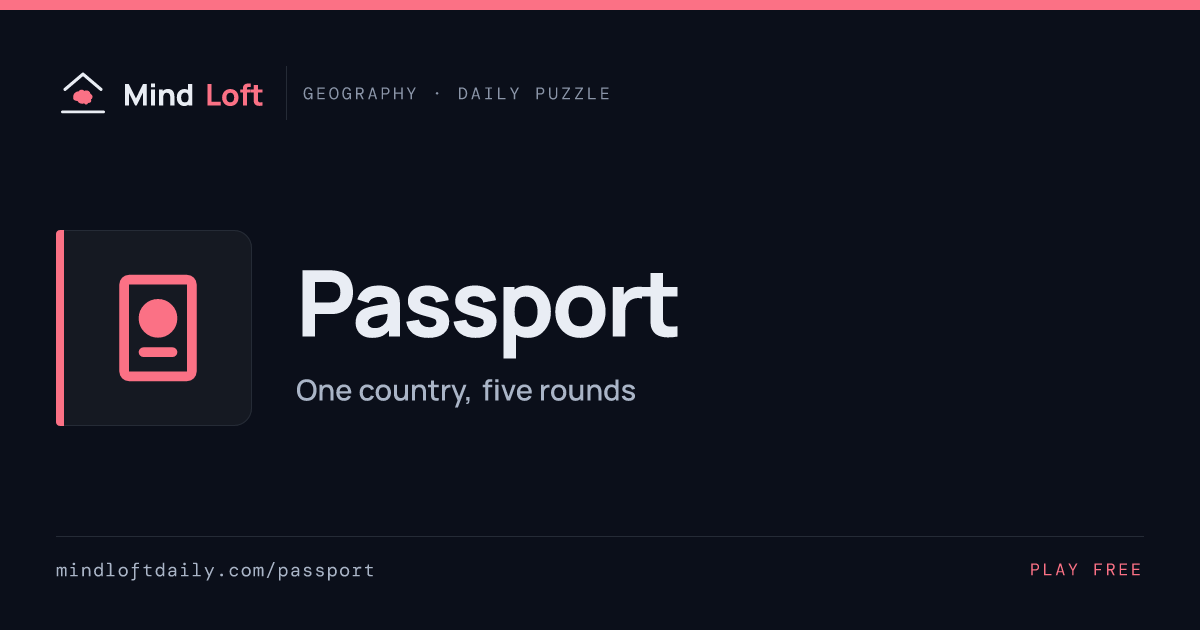
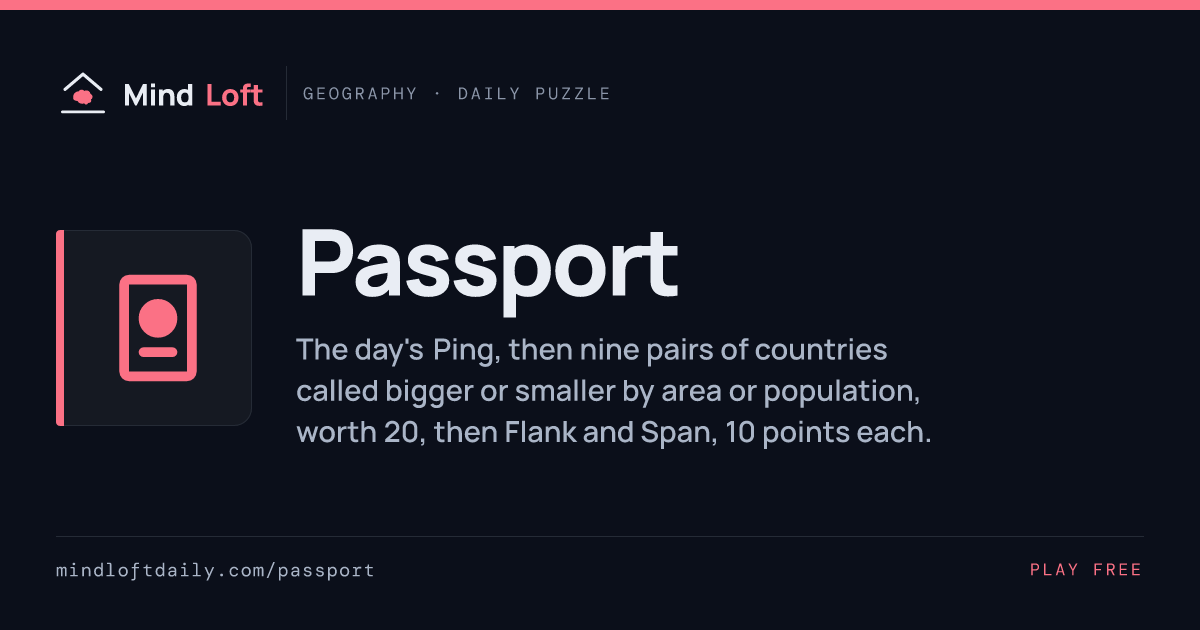
Passport copy: stop calling it one country; describe the four legs (newsletter, entry door, share card, fallback)
Claude-Session: https://claude.ai/code/session_01WTo3gx6W8KygJbLUGP86pN

Changed region(s): [[0.2467, 0.3619, 0.74, 0.573], [0.2467, 0.6032, 0.7708, 0.7238]]

diff --git a/lib/newsletters/four-weeks-2026-10-19.js b/lib/newsletters/four-weeks-2026-10-19.js
@@ -8,7 +8,7 @@ export const CAMPAIGN = {
   preheader: 'Thank you: 110,028 plays, a leaderboard nearly three times bigger, 40 new daily games, runs and private groups.',
 };
 
-const HTML = "<!doctype html>\n<html><head><meta charset=\"utf-8\"><meta name=\"viewport\" content=\"width=device-width,initial-scale=1\">\n<title>Mind Loft, the last four weeks</title></head>\n<body style=\"margin:0;padding:0;background:#eef1f6;font-family:Manrope,Arial,Helvetica,sans-serif;color:#0b0d12;\">\n<div style=\"display:none;max-height:0;overflow:hidden;\">Thank you: 110,028 plays, a leaderboard nearly three times bigger, 40 new daily games, runs and private groups.</div>\n<table role=\"presentation\" width=\"100%\" cellpadding=\"0\" cellspacing=\"0\" style=\"background:#eef1f6;\"><tr><td align=\"center\" style=\"padding:24px 12px;\">\n<table role=\"presentation\" width=\"600\" cellpadding=\"0\" cellspacing=\"0\" style=\"max-width:600px;width:100%;\">\n\n<tr><td style=\"background:#0b0f1a;border-radius:12px 12px 0 0;padding:26px 28px;\">\n<table role=\"presentation\" width=\"100%\" cellpadding=\"0\" cellspacing=\"0\"><tr>\n<td style=\"vertical-align:baseline;\"><span style=\"font-size:20px;font-weight:800;color:#ffffff;\">Mind Loft</span><span style=\"font-size:13px;color:#bfd0ee;\"> &nbsp;\u00b7&nbsp; Sharpen your mind</span></td>\n<td align=\"right\" style=\"vertical-align:baseline;font-size:12px;letter-spacing:.08em;text-transform:uppercase;color:#7db0ff;font-weight:700;white-space:nowrap;\">Sept 22 to Oct 18</td>\n</tr></table>\n<div style=\"font-size:28px;font-weight:800;color:#ffffff;line-height:1.2;margin-top:18px;\">The last four weeks</div>\n<div style=\"font-size:15px;color:#dbe6ff;line-height:1.55;margin-top:10px;\">Thank you for playing. Mind Loft keeps growing because of you, and especially because you keep bringing friends along.</div>\n<div style=\"font-size:15px;color:#dbe6ff;line-height:1.55;margin-top:10px;\">In the last four weeks you played 110,028 games, nearly four times as many a day as when we last wrote. The leaderboard has grown from 4,630 players to 13,272, and our busiest day yet was Friday, Oct 16, with 1,264 players.</div>\n<div style=\"font-size:15px;color:#dbe6ff;line-height:1.55;margin-top:10px;\">We are also working on ways Mind Loft can help cognitive researchers in their work. More to share on that soon.</div>\n<div style=\"font-size:15px;color:#dbe6ff;line-height:1.55;margin-top:10px;\">Below: who led the way, who brought the most friends, and everything new.</div>\n</td></tr>\n\n<tr><td style=\"background:#ffffff;padding:26px 28px;border-left:4px solid #e8b43a;\">\n<div style=\"font-size:12px;letter-spacing:.12em;text-transform:uppercase;color:#8a6a12;font-weight:800;\">Top players</div>\n<div style=\"font-size:20px;font-weight:800;margin-top:6px;\">Jordan Voss took 21 of 27 crowns</div>\n<div style=\"font-size:15px;line-height:1.6;margin-top:8px;color:#2b3140;\">Jordan won the combined daily board 21 times, finished first in 310 individual games, and earned 29,507 IQ Points in the last 30 days, more than anyone. The other six days went to Darrren1 (three), rookie, TL68 and VicMcDoogle.</div>\n<table role=\"presentation\" width=\"100%\" cellpadding=\"0\" cellspacing=\"0\" style=\"margin-top:16px;font-size:14px;\">\n<tr><td style=\"padding:9px 0;border-top:1px solid #e3e7ef;\"><b>VicMcDoogle</b></td><td align=\"right\" style=\"padding:9px 0;border-top:1px solid #e3e7ef;color:#2b3140;\">#1 all time, 57,276 IQ Points; 14 top-three days</td></tr>\n<tr><td style=\"padding:9px 0;border-top:1px solid #e3e7ef;\"><b>rookie</b></td><td align=\"right\" style=\"padding:9px 0;border-top:1px solid #e3e7ef;color:#2b3140;\">Top ten on 25 of 27 days; 252 game wins</td></tr>\n<tr><td style=\"padding:9px 0;border-top:1px solid #e3e7ef;\"><b>TL68</b></td><td align=\"right\" style=\"padding:9px 0;border-top:1px solid #e3e7ef;color:#2b3140;\">Top ten on 25 of 27 days; 114 game wins</td></tr>\n<tr><td style=\"padding:9px 0;border-top:1px solid #e3e7ef;\"><b>e4n</b></td><td align=\"right\" style=\"padding:9px 0;border-top:1px solid #e3e7ef;color:#2b3140;\">181 game wins</td></tr>\n<tr><td style=\"padding:9px 0;border-top:1px solid #e3e7ef;border-bottom:1px solid #e3e7ef;\"><b>Darrren1</b></td><td align=\"right\" style=\"padding:9px 0;border-top:1px solid #e3e7ef;border-bottom:1px solid #e3e7ef;color:#2b3140;\">Three crowns; #2 all time on IQ Points</td></tr>\n</table>\n</td></tr>\n\n<tr><td style=\"height:12px;line-height:12px;\">&nbsp;</td></tr>\n\n<tr><td style=\"background:#ffffff;padding:26px 28px;border-left:4px solid #1f8a5b;\">\n<div style=\"font-size:12px;letter-spacing:.12em;text-transform:uppercase;color:#1f6b47;font-weight:800;\">Top community members</div>\n<div style=\"font-size:20px;font-weight:800;margin-top:6px;\">Thank you for bringing friends</div>\n<div style=\"font-size:15px;line-height:1.6;margin-top:8px;color:#2b3140;\">These players have brought the most new players to Mind Loft through their share links.</div>\n<table role=\"presentation\" width=\"100%\" cellpadding=\"0\" cellspacing=\"0\" style=\"margin-top:14px;font-size:14px;\">\n<tr><td style=\"padding:8px 0;border-top:1px solid #e3e7ef;\"><b>1. Gator85</b></td><td align=\"right\" style=\"padding:8px 0;border-top:1px solid #e3e7ef;\">33 players</td></tr>\n<tr><td style=\"padding:8px 0;border-top:1px solid #e3e7ef;\"><b>2. Gayle F</b></td><td align=\"right\" style=\"padding:8px 0;border-top:1px solid #e3e7ef;\">22 players</td></tr>\n<tr><td style=\"padding:8px 0;border-top:1px solid #e3e7ef;\"><b>3. LookAtLeo</b></td><td align=\"right\" style=\"padding:8px 0;border-top:1px solid #e3e7ef;\">11 players</td></tr>\n<tr><td style=\"padding:8px 0;border-top:1px solid #e3e7ef;\"><b>4. Bong S.</b></td><td align=\"right\" style=\"padding:8px 0;border-top:1px solid #e3e7ef;\">6 players</td></tr>\n<tr><td style=\"padding:8px 0;border-top:1px solid #e3e7ef;border-bottom:1px solid #e3e7ef;\"><b>5. Jimbo, jkoh, Gator88</b></td><td align=\"right\" style=\"padding:8px 0;border-top:1px solid #e3e7ef;border-bottom:1px solid #e3e7ef;\">5 players each</td></tr>\n</table>\n<div style=\"font-size:14px;line-height:1.6;margin-top:12px;color:#2b3140;\">Your share link is on the end card after every game. Anyone who plays through it counts toward your total.</div>\n</td></tr>\n\n<tr><td style=\"height:12px;line-height:12px;\">&nbsp;</td></tr>\n\n<tr><td style=\"background:#ffffff;padding:26px 28px;border-left:4px solid #2563eb;\">\n<div style=\"font-size:12px;letter-spacing:.12em;text-transform:uppercase;color:#1d4ed8;font-weight:800;\">New: runs</div>\n<div style=\"font-size:20px;font-weight:800;margin-top:6px;\">Several games, one sitting, one score</div>\n<div style=\"font-size:15px;line-height:1.6;margin-top:8px;color:#2b3140;\">A run plays a set of daily games back to back with no stops in between, and ranks you on the whole set. Each one ends with a title or verdict, and a challenge link to send a friend.</div>\n<table role=\"presentation\" width=\"100%\" cellpadding=\"0\" cellspacing=\"0\" style=\"margin-top:12px;font-size:14px;line-height:1.5;\">\n<tr><td style=\"padding:8px 0;border-top:1px solid #e3e7ef;\"><a href=\"https://mindloftdaily.com/polymath?c=nl1019-runs\" style=\"color:#1d4ed8;font-weight:800;text-decoration:none;\">Polymath</a> <span style=\"color:#6b7385;\">new today</span><br>The Trivia, Math and English Gauntlets in one. Earn a title from Dabbler to Polymath.</td></tr>\n<tr><td style=\"padding:8px 0;border-top:1px solid #e3e7ef;\"><a href=\"https://mindloftdaily.com/english?c=nl1019-runs\" style=\"color:#1d4ed8;font-weight:800;text-decoration:none;\">English Gauntlet</a> <span style=\"color:#6b7385;\">new today</span><br>Spelling, vocabulary, idioms, grammar and word origins.</td></tr>\n<tr><td style=\"padding:8px 0;border-top:1px solid #e3e7ef;\"><a href=\"https://mindloftdaily.com/math?c=nl1019-runs\" style=\"color:#1d4ed8;font-weight:800;text-decoration:none;\">Math Gauntlet</a><br>Every mental math daily, one life each.</td></tr>\n<tr><td style=\"padding:8px 0;border-top:1px solid #e3e7ef;\"><a href=\"https://mindloftdaily.com/triviaencore?c=nl1019-runs\" style=\"color:#1d4ed8;font-weight:800;text-decoration:none;\">Trivia Encore</a><br>The trivia categories left out of the day's Trivia Gauntlet.</td></tr>\n<tr><td style=\"padding:8px 0;border-top:1px solid #e3e7ef;\"><a href=\"https://mindloftdaily.com/dojo?c=nl1019-runs\" style=\"color:#1d4ed8;font-weight:800;text-decoration:none;\">Enter the Dojo</a><br>Three sudokus, fast. Earn your belt.</td></tr>\n<tr><td style=\"padding:8px 0;border-top:1px solid #e3e7ef;\"><a href=\"https://mindloftdaily.com/judged?c=nl1019-runs\" style=\"color:#1d4ed8;font-weight:800;text-decoration:none;\">Judged</a><br>Five legal-reasoning puzzles. Your score picks your law school.</td></tr>\n<tr><td style=\"padding:8px 0;border-top:1px solid #e3e7ef;\"><a href=\"https://mindloftdaily.com/room?c=nl1019-runs\" style=\"color:#1d4ed8;font-weight:800;text-decoration:none;\">Read the Room</a><br>Four crowd games. No answer key, only what everyone else picked.</td></tr>\n<tr><td style=\"padding:8px 0;border-top:1px solid #e3e7ef;\"><a href=\"https://mindloftdaily.com/passport?c=nl1019-runs\" style=\"color:#1d4ed8;font-weight:800;text-decoration:none;\">Passport</a><br>A daily geography run built around one country.</td></tr>\n<tr><td style=\"padding:8px 0;border-top:1px solid #e3e7ef;border-bottom:1px solid #e3e7ef;\"><a href=\"https://mindloftdaily.com/pricecheck?c=nl1019-runs\" style=\"color:#1d4ed8;font-weight:800;text-decoration:none;\">Price Check</a><br>Guess what real things cost, from groceries to houses.</td></tr>\n</table>\n</td></tr>\n\n<tr><td style=\"height:12px;line-height:12px;\">&nbsp;</td></tr>\n\n<tr><td style=\"background:#ffffff;padding:26px 28px;border-left:4px solid #7c3aed;\">\n<div style=\"font-size:12px;letter-spacing:.12em;text-transform:uppercase;color:#6d28d9;font-weight:800;\">New: groups</div>\n<div style=\"font-size:20px;font-weight:800;margin-top:6px;\">A private leaderboard for your people</div>\n<div style=\"font-size:15px;line-height:1.6;margin-top:8px;color:#2b3140;\">Make a group for family, friends, a book club or the office. Share one link and everyone in it gets a private daily leaderboard, per-game rankings, stats and history.</div>\n<div style=\"margin-top:14px;\"><a href=\"https://mindloftdaily.com/groups?c=nl1019-groups\" style=\"display:inline-block;background:#7c3aed;color:#ffffff;font-weight:800;font-size:14px;padding:10px 18px;border-radius:8px;text-decoration:none;\">Start a group</a></div>\n</td></tr>\n\n<tr><td style=\"height:12px;line-height:12px;\">&nbsp;</td></tr>\n\n<tr><td style=\"background:#ffffff;padding:26px 28px;border-left:4px solid #c2410c;\">\n<div style=\"font-size:12px;letter-spacing:.12em;text-transform:uppercase;color:#9a3412;font-weight:800;\">New games</div>\n<div style=\"font-size:20px;font-weight:800;margin-top:6px;\">The daily slate grew from 95 games to 135</div>\n<table role=\"presentation\" width=\"100%\" cellpadding=\"0\" cellspacing=\"0\" style=\"margin-top:12px;font-size:14px;line-height:1.55;color:#2b3140;\">\n<tr><td style=\"padding:7px 0;border-top:1px solid #e3e7ef;width:96px;vertical-align:top;\"><b>Word</b></td><td style=\"padding:7px 0;border-top:1px solid #e3e7ef;\"><a href=\"https://mindloftdaily.com/arcos?c=nl1019-games\" style=\"color:#1d4ed8;\">Arcos</a> (acrostics), <a href=\"https://mindloftdaily.com/scour?c=nl1019-games\" style=\"color:#1d4ed8;\">Scour</a> (word search), <a href=\"https://mindloftdaily.com/scram?c=nl1019-games\" style=\"color:#1d4ed8;\">Scram</a> (themed scrambles), plus five English quizzes: Spell, Vocab, Idiom, Gram and Origin</td></tr>\n<tr><td style=\"padding:7px 0;border-top:1px solid #e3e7ef;vertical-align:top;\"><b>Logic</b></td><td style=\"padding:7px 0;border-top:1px solid #e3e7ef;\"><a href=\"https://mindloftdaily.com/ergo?c=nl1019-games\" style=\"color:#1d4ed8;\">Ergo</a> (if-then rules), <a href=\"https://mindloftdaily.com/judges?c=nl1019-games\" style=\"color:#1d4ed8;\">Judges</a> (Star Battle), <a href=\"https://mindloftdaily.com/lamps?c=nl1019-games\" style=\"color:#1d4ed8;\">Lamps</a> (light-up), <a href=\"https://mindloftdaily.com/duet?c=nl1019-games\" style=\"color:#1d4ed8;\">Duet</a> (dots and rings)</td></tr>\n<tr><td style=\"padding:7px 0;border-top:1px solid #e3e7ef;vertical-align:top;\"><b>Sudoku</b></td><td style=\"padding:7px 0;border-top:1px solid #e3e7ef;\"><a href=\"https://mindloftdaily.com/giant?c=nl1019-games\" style=\"color:#1d4ed8;\">Giant</a> (16x16), Arrow, Sumo, Window, Five and Racecar</td></tr>\n<tr><td style=\"padding:7px 0;border-top:1px solid #e3e7ef;vertical-align:top;\"><b>Numbers</b></td><td style=\"padding:7px 0;border-top:1px solid #e3e7ef;\"><a href=\"https://mindloftdaily.com/gap?c=nl1019-games\" style=\"color:#1d4ed8;\">Gap</a>, <a href=\"https://mindloftdaily.com/series?c=nl1019-games\" style=\"color:#1d4ed8;\">Series</a> and <a href=\"https://mindloftdaily.com/back?c=nl1019-games\" style=\"color:#1d4ed8;\">Back</a>, plus five price games: Pricer, Dealer, Realtor, Agent and Curator</td></tr>\n<tr><td style=\"padding:7px 0;border-top:1px solid #e3e7ef;vertical-align:top;\"><b>Trivia</b></td><td style=\"padding:7px 0;border-top:1px solid #e3e7ef;\"><a href=\"https://mindloftdaily.com/clade?c=nl1019-games\" style=\"color:#1d4ed8;\">Clade</a> (guess the animal), <a href=\"https://mindloftdaily.com/dossier?c=nl1019-games\" style=\"color:#1d4ed8;\">Dossier</a>, <a href=\"https://mindloftdaily.com/potluck?c=nl1019-games\" style=\"color:#1d4ed8;\">Potluck</a>, and new Science, Art and History banks</td></tr>\n<tr><td style=\"padding:7px 0;border-top:1px solid #e3e7ef;vertical-align:top;\"><b>Cards</b></td><td style=\"padding:7px 0;border-top:1px solid #e3e7ef;\"><a href=\"https://mindloftdaily.com/hold?c=nl1019-games\" style=\"color:#1d4ed8;\">Hold</a> (video poker) and <a href=\"https://mindloftdaily.com/cell?c=nl1019-games\" style=\"color:#1d4ed8;\">Cell</a> (FreeCell)</td></tr>\n<tr><td style=\"padding:7px 0;border-top:1px solid #e3e7ef;vertical-align:top;\"><b>Board</b></td><td style=\"padding:7px 0;border-top:1px solid #e3e7ef;\"><a href=\"https://mindloftdaily.com/swindle?c=nl1019-games\" style=\"color:#1d4ed8;\">Swindle</a> (save a lost chess game) and <a href=\"https://mindloftdaily.com/gift?c=nl1019-games\" style=\"color:#1d4ed8;\">Gift</a></td></tr>\n<tr><td style=\"padding:7px 0;border-top:1px solid #e3e7ef;vertical-align:top;\"><b>Crowd</b></td><td style=\"padding:7px 0;border-top:1px solid #e3e7ef;\"><a href=\"https://mindloftdaily.com/herd?c=nl1019-games\" style=\"color:#1d4ed8;\">Herd</a> (pick what most players picked)</td></tr>\n<tr><td style=\"padding:7px 0;border-top:1px solid #e3e7ef;border-bottom:1px solid #e3e7ef;vertical-align:top;\"><b>Arcade</b></td><td style=\"padding:7px 0;border-top:1px solid #e3e7ef;border-bottom:1px solid #e3e7ef;\"><a href=\"https://mindloftdaily.com/squash?c=nl1019-games\" style=\"color:#1d4ed8;\">Squash</a> (match three), <a href=\"https://mindloftdaily.com/dario?c=nl1019-games\" style=\"color:#1d4ed8;\">Dario</a> (platformer) and <a href=\"https://mindloftdaily.com/snake?c=nl1019-games\" style=\"color:#1d4ed8;\">Snake</a></td></tr>\n</table>\n<div style=\"font-size:14px;line-height:1.6;margin-top:12px;color:#2b3140;\">Also new: a daily <a href=\"https://mindloftdaily.com/jig?c=nl1019-games\" style=\"color:#1d4ed8;\">jigsaw</a> and a shelf of <a href=\"https://mindloftdaily.com/iq?c=nl1019-games\" style=\"color:#1d4ed8;\">IQ tests</a>.</div>\n</td></tr>\n\n<tr><td style=\"background:#0b0f1a;border-radius:0 0 12px 12px;padding:26px 28px;text-align:center;margin-top:12px;\">\n<div style=\"font-size:17px;font-weight:800;color:#ffffff;\">Today's slate is fresh</div>\n<div style=\"margin-top:14px;\"><a href=\"https://mindloftdaily.com?c=nl1019-play\" style=\"display:inline-block;background:#2f6fe4;color:#ffffff;font-weight:800;font-size:15px;padding:12px 22px;border-radius:8px;text-decoration:none;\">Play today's puzzles</a></div>\n</td></tr>\n\n<tr><td style=\"padding:18px 28px;font-size:12px;line-height:1.6;color:#6b7385;text-align:center;\">\nYou are getting this because you joined the Mind Loft leaderboard with this address.<br>\n<a href=\"{{UNSUB}}\" style=\"color:#6b7385;\">Unsubscribe</a> \u00b7 admin@mindloftdaily.com\n</td></tr>\n\n</table></td></tr></table>\n</body></html>\n";
+const HTML = "<!doctype html>\n<html><head><meta charset=\"utf-8\"><meta name=\"viewport\" content=\"width=device-width,initial-scale=1\">\n<title>Mind Loft, the last four weeks</title></head>\n<body style=\"margin:0;padding:0;background:#eef1f6;font-family:Manrope,Arial,Helvetica,sans-serif;color:#0b0d12;\">\n<div style=\"display:none;max-height:0;overflow:hidden;\">Thank you: 110,028 plays, a leaderboard nearly three times bigger, 40 new daily games, runs and private groups.</div>\n<table role=\"presentation\" width=\"100%\" cellpadding=\"0\" cellspacing=\"0\" style=\"background:#eef1f6;\"><tr><td align=\"center\" style=\"padding:24px 12px;\">\n<table role=\"presentation\" width=\"600\" cellpadding=\"0\" cellspacing=\"0\" style=\"max-width:600px;width:100%;\">\n\n<tr><td style=\"background:#0b0f1a;border-radius:12px 12px 0 0;padding:26px 28px;\">\n<table role=\"presentation\" width=\"100%\" cellpadding=\"0\" cellspacing=\"0\"><tr>\n<td style=\"vertical-align:baseline;\"><span style=\"font-size:20px;font-weight:800;color:#ffffff;\">Mind Loft</span><span style=\"font-size:13px;color:#bfd0ee;\"> &nbsp;\u00b7&nbsp; Sharpen your mind</span></td>\n<td align=\"right\" style=\"vertical-align:baseline;font-size:12px;letter-spacing:.08em;text-transform:uppercase;color:#7db0ff;font-weight:700;white-space:nowrap;\">Sept 22 to Oct 18</td>\n</tr></table>\n<div style=\"font-size:28px;font-weight:800;color:#ffffff;line-height:1.2;margin-top:18px;\">The last four weeks</div>\n<div style=\"font-size:15px;color:#dbe6ff;line-height:1.55;margin-top:10px;\">Thank you for playing. Mind Loft keeps growing because of you, and especially because you keep bringing friends along.</div>\n<div style=\"font-size:15px;color:#dbe6ff;line-height:1.55;margin-top:10px;\">In the last four weeks you played 110,028 games, nearly four times as many a day as when we last wrote. The leaderboard has grown from 4,630 players to 13,272, and our busiest day yet was Friday, Oct 16, with 1,264 players.</div>\n<div style=\"font-size:15px;color:#dbe6ff;line-height:1.55;margin-top:10px;\">We are also working on ways Mind Loft can help cognitive researchers in their work. More to share on that soon.</div>\n<div style=\"font-size:15px;color:#dbe6ff;line-height:1.55;margin-top:10px;\">Below: who led the way, who brought the most friends, and everything new.</div>\n</td></tr>\n\n<tr><td style=\"background:#ffffff;padding:26px 28px;border-left:4px solid #e8b43a;\">\n<div style=\"font-size:12px;letter-spacing:.12em;text-transform:uppercase;color:#8a6a12;font-weight:800;\">Top players</div>\n<div style=\"font-size:20px;font-weight:800;margin-top:6px;\">Jordan Voss took 21 of 27 crowns</div>\n<div style=\"font-size:15px;line-height:1.6;margin-top:8px;color:#2b3140;\">Jordan won the combined daily board 21 times, finished first in 310 individual games, and earned 29,507 IQ Points in the last 30 days, more than anyone. The other six days went to Darrren1 (three), rookie, TL68 and VicMcDoogle.</div>\n<table role=\"presentation\" width=\"100%\" cellpadding=\"0\" cellspacing=\"0\" style=\"margin-top:16px;font-size:14px;\">\n<tr><td style=\"padding:9px 0;border-top:1px solid #e3e7ef;\"><b>VicMcDoogle</b></td><td align=\"right\" style=\"padding:9px 0;border-top:1px solid #e3e7ef;color:#2b3140;\">#1 all time, 57,276 IQ Points; 14 top-three days</td></tr>\n<tr><td style=\"padding:9px 0;border-top:1px solid #e3e7ef;\"><b>rookie</b></td><td align=\"right\" style=\"padding:9px 0;border-top:1px solid #e3e7ef;color:#2b3140;\">Top ten on 25 of 27 days; 252 game wins</td></tr>\n<tr><td style=\"padding:9px 0;border-top:1px solid #e3e7ef;\"><b>TL68</b></td><td align=\"right\" style=\"padding:9px 0;border-top:1px solid #e3e7ef;color:#2b3140;\">Top ten on 25 of 27 days; 114 game wins</td></tr>\n<tr><td style=\"padding:9px 0;border-top:1px solid #e3e7ef;\"><b>e4n</b></td><td align=\"right\" style=\"padding:9px 0;border-top:1px solid #e3e7ef;color:#2b3140;\">181 game wins</td></tr>\n<tr><td style=\"padding:9px 0;border-top:1px solid #e3e7ef;border-bottom:1px solid #e3e7ef;\"><b>Darrren1</b></td><td align=\"right\" style=\"padding:9px 0;border-top:1px solid #e3e7ef;border-bottom:1px solid #e3e7ef;color:#2b3140;\">Three crowns; #2 all time on IQ Points</td></tr>\n</table>\n</td></tr>\n\n<tr><td style=\"height:12px;line-height:12px;\">&nbsp;</td></tr>\n\n<tr><td style=\"background:#ffffff;padding:26px 28px;border-left:4px solid #1f8a5b;\">\n<div style=\"font-size:12px;letter-spacing:.12em;text-transform:uppercase;color:#1f6b47;font-weight:800;\">Top community members</div>\n<div style=\"font-size:20px;font-weight:800;margin-top:6px;\">Thank you for bringing friends</div>\n<div style=\"font-size:15px;line-height:1.6;margin-top:8px;color:#2b3140;\">These players have brought the most new players to Mind Loft through their share links.</div>\n<table role=\"presentation\" width=\"100%\" cellpadding=\"0\" cellspacing=\"0\" style=\"margin-top:14px;font-size:14px;\">\n<tr><td style=\"padding:8px 0;border-top:1px solid #e3e7ef;\"><b>1. Gator85</b></td><td align=\"right\" style=\"padding:8px 0;border-top:1px solid #e3e7ef;\">33 players</td></tr>\n<tr><td style=\"padding:8px 0;border-top:1px solid #e3e7ef;\"><b>2. Gayle F</b></td><td align=\"right\" style=\"padding:8px 0;border-top:1px solid #e3e7ef;\">22 players</td></tr>\n<tr><td style=\"padding:8px 0;border-top:1px solid #e3e7ef;\"><b>3. LookAtLeo</b></td><td align=\"right\" style=\"padding:8px 0;border-top:1px solid #e3e7ef;\">11 players</td></tr>\n<tr><td style=\"padding:8px 0;border-top:1px solid #e3e7ef;\"><b>4. Bong S.</b></td><td align=\"right\" style=\"padding:8px 0;border-top:1px solid #e3e7ef;\">6 players</td></tr>\n<tr><td style=\"padding:8px 0;border-top:1px solid #e3e7ef;border-bottom:1px solid #e3e7ef;\"><b>5. Jimbo, jkoh, Gator88</b></td><td align=\"right\" style=\"padding:8px 0;border-top:1px solid #e3e7ef;border-bottom:1px solid #e3e7ef;\">5 players each</td></tr>\n</table>\n<div style=\"font-size:14px;line-height:1.6;margin-top:12px;color:#2b3140;\">Your share link is on the end card after every game. Anyone who plays through it counts toward your total.</div>\n</td></tr>\n\n<tr><td style=\"height:12px;line-height:12px;\">&nbsp;</td></tr>\n\n<tr><td style=\"background:#ffffff;padding:26px 28px;border-left:4px solid #2563eb;\">\n<div style=\"font-size:12px;letter-spacing:.12em;text-transform:uppercase;color:#1d4ed8;font-weight:800;\">New: runs</div>\n<div style=\"font-size:20px;font-weight:800;margin-top:6px;\">Several games, one sitting, one score</div>\n<div style=\"font-size:15px;line-height:1.6;margin-top:8px;color:#2b3140;\">A run plays a set of daily games back to back with no stops in between, and ranks you on the whole set. Each one ends with a title or verdict, and a challenge link to send a friend.</div>\n<table role=\"presentation\" width=\"100%\" cellpadding=\"0\" cellspacing=\"0\" style=\"margin-top:12px;font-size:14px;line-height:1.5;\">\n<tr><td style=\"padding:8px 0;border-top:1px solid #e3e7ef;\"><a href=\"https://mindloftdaily.com/polymath?c=nl1019-runs\" style=\"color:#1d4ed8;font-weight:800;text-decoration:none;\">Polymath</a> <span style=\"color:#6b7385;\">new today</span><br>The Trivia, Math and English Gauntlets in one. Earn a title from Dabbler to Polymath.</td></tr>\n<tr><td style=\"padding:8px 0;border-top:1px solid #e3e7ef;\"><a href=\"https://mindloftdaily.com/english?c=nl1019-runs\" style=\"color:#1d4ed8;font-weight:800;text-decoration:none;\">English Gauntlet</a> <span style=\"color:#6b7385;\">new today</span><br>Spelling, vocabulary, idioms, grammar and word origins.</td></tr>\n<tr><td style=\"padding:8px 0;border-top:1px solid #e3e7ef;\"><a href=\"https://mindloftdaily.com/math?c=nl1019-runs\" style=\"color:#1d4ed8;font-weight:800;text-decoration:none;\">Math Gauntlet</a><br>Every mental math daily, one life each.</td></tr>\n<tr><td style=\"padding:8px 0;border-top:1px solid #e3e7ef;\"><a href=\"https://mindloftdaily.com/triviaencore?c=nl1019-runs\" style=\"color:#1d4ed8;font-weight:800;text-decoration:none;\">Trivia Encore</a><br>The trivia categories left out of the day's Trivia Gauntlet.</td></tr>\n<tr><td style=\"padding:8px 0;border-top:1px solid #e3e7ef;\"><a href=\"https://mindloftdaily.com/dojo?c=nl1019-runs\" style=\"color:#1d4ed8;font-weight:800;text-decoration:none;\">Enter the Dojo</a><br>Three sudokus, fast. Earn your belt.</td></tr>\n<tr><td style=\"padding:8px 0;border-top:1px solid #e3e7ef;\"><a href=\"https://mindloftdaily.com/judged?c=nl1019-runs\" style=\"color:#1d4ed8;font-weight:800;text-decoration:none;\">Judged</a><br>Five legal-reasoning puzzles. Your score picks your law school.</td></tr>\n<tr><td style=\"padding:8px 0;border-top:1px solid #e3e7ef;\"><a href=\"https://mindloftdaily.com/room?c=nl1019-runs\" style=\"color:#1d4ed8;font-weight:800;text-decoration:none;\">Read the Room</a><br>Four crowd games. No answer key, only what everyone else picked.</td></tr>\n<tr><td style=\"padding:8px 0;border-top:1px solid #e3e7ef;\"><a href=\"https://mindloftdaily.com/passport?c=nl1019-runs\" style=\"color:#1d4ed8;font-weight:800;text-decoration:none;\">Passport</a><br>Ping, nine size calls, then Flank and Span. Your score picks the passport you fly home on.</td></tr>\n<tr><td style=\"padding:8px 0;border-top:1px solid #e3e7ef;border-bottom:1px solid #e3e7ef;\"><a href=\"https://mindloftdaily.com/pricecheck?c=nl1019-runs\" style=\"color:#1d4ed8;font-weight:800;text-decoration:none;\">Price Check</a><br>Guess what real things cost, from groceries to houses.</td></tr>\n</table>\n</td></tr>\n\n<tr><td style=\"height:12px;line-height:12px;\">&nbsp;</td></tr>\n\n<tr><td style=\"background:#ffffff;padding:26px 28px;border-left:4px solid #7c3aed;\">\n<div style=\"font-size:12px;letter-spacing:.12em;text-transform:uppercase;color:#6d28d9;font-weight:800;\">New: groups</div>\n<div style=\"font-size:20px;font-weight:800;margin-top:6px;\">A private leaderboard for your people</div>\n<div style=\"font-size:15px;line-height:1.6;margin-top:8px;color:#2b3140;\">Make a group for family, friends, a book club or the office. Share one link and everyone in it gets a private daily leaderboard, per-game rankings, stats and history.</div>\n<div style=\"margin-top:14px;\"><a href=\"https://mindloftdaily.com/groups?c=nl1019-groups\" style=\"display:inline-block;background:#7c3aed;color:#ffffff;font-weight:800;font-size:14px;padding:10px 18px;border-radius:8px;text-decoration:none;\">Start a group</a></div>\n</td></tr>\n\n<tr><td style=\"height:12px;line-height:12px;\">&nbsp;</td></tr>\n\n<tr><td style=\"background:#ffffff;padding:26px 28px;border-left:4px solid #c2410c;\">\n<div style=\"font-size:12px;letter-spacing:.12em;text-transform:uppercase;color:#9a3412;font-weight:800;\">New games</div>\n<div style=\"font-size:20px;font-weight:800;margin-top:6px;\">The daily slate grew from 95 games to 135</div>\n<table role=\"presentation\" width=\"100%\" cellpadding=\"0\" cellspacing=\"0\" style=\"margin-top:12px;font-size:14px;line-height:1.55;color:#2b3140;\">\n<tr><td style=\"padding:7px 0;border-top:1px solid #e3e7ef;width:96px;vertical-align:top;\"><b>Word</b></td><td style=\"padding:7px 0;border-top:1px solid #e3e7ef;\"><a href=\"https://mindloftdaily.com/arcos?c=nl1019-games\" style=\"color:#1d4ed8;\">Arcos</a> (acrostics), <a href=\"https://mindloftdaily.com/scour?c=nl1019-games\" style=\"color:#1d4ed8;\">Scour</a> (word search), <a href=\"https://mindloftdaily.com/scram?c=nl1019-games\" style=\"color:#1d4ed8;\">Scram</a> (themed scrambles), plus five English quizzes: Spell, Vocab, Idiom, Gram and Origin</td></tr>\n<tr><td style=\"padding:7px 0;border-top:1px solid #e3e7ef;vertical-align:top;\"><b>Logic</b></td><td style=\"padding:7px 0;border-top:1px solid #e3e7ef;\"><a href=\"https://mindloftdaily.com/ergo?c=nl1019-games\" style=\"color:#1d4ed8;\">Ergo</a> (if-then rules), <a href=\"https://mindloftdaily.com/judges?c=nl1019-games\" style=\"color:#1d4ed8;\">Judges</a> (Star Battle), <a href=\"https://mindloftdaily.com/lamps?c=nl1019-games\" style=\"color:#1d4ed8;\">Lamps</a> (light-up), <a href=\"https://mindloftdaily.com/duet?c=nl1019-games\" style=\"color:#1d4ed8;\">Duet</a> (dots and rings)</td></tr>\n<tr><td style=\"padding:7px 0;border-top:1px solid #e3e7ef;vertical-align:top;\"><b>Sudoku</b></td><td style=\"padding:7px 0;border-top:1px solid #e3e7ef;\"><a href=\"https://mindloftdaily.com/giant?c=nl1019-games\" style=\"color:#1d4ed8;\">Giant</a> (16x16), Arrow, Sumo, Window, Five and Racecar</td></tr>\n<tr><td style=\"padding:7px 0;border-top:1px solid #e3e7ef;vertical-align:top;\"><b>Numbers</b></td><td style=\"padding:7px 0;border-top:1px solid #e3e7ef;\"><a href=\"https://mindloftdaily.com/gap?c=nl1019-games\" style=\"color:#1d4ed8;\">Gap</a>, <a href=\"https://mindloftdaily.com/series?c=nl1019-games\" style=\"color:#1d4ed8;\">Series</a> and <a href=\"https://mindloftdaily.com/back?c=nl1019-games\" style=\"color:#1d4ed8;\">Back</a>, plus five price games: Pricer, Dealer, Realtor, Agent and Curator</td></tr>\n<tr><td style=\"padding:7px 0;border-top:1px solid #e3e7ef;vertical-align:top;\"><b>Trivia</b></td><td style=\"padding:7px 0;border-top:1px solid #e3e7ef;\"><a href=\"https://mindloftdaily.com/clade?c=nl1019-games\" style=\"color:#1d4ed8;\">Clade</a> (guess the animal), <a href=\"https://mindloftdaily.com/dossier?c=nl1019-games\" style=\"color:#1d4ed8;\">Dossier</a>, <a href=\"https://mindloftdaily.com/potluck?c=nl1019-games\" style=\"color:#1d4ed8;\">Potluck</a>, and new Science, Art and History banks</td></tr>\n<tr><td style=\"padding:7px 0;border-top:1px solid #e3e7ef;vertical-align:top;\"><b>Cards</b></td><td style=\"padding:7px 0;border-top:1px solid #e3e7ef;\"><a href=\"https://mindloftdaily.com/hold?c=nl1019-games\" style=\"color:#1d4ed8;\">Hold</a> (video poker) and <a href=\"https://mindloftdaily.com/cell?c=nl1019-games\" style=\"color:#1d4ed8;\">Cell</a> (FreeCell)</td></tr>\n<tr><td style=\"padding:7px 0;border-top:1px solid #e3e7ef;vertical-align:top;\"><b>Board</b></td><td style=\"padding:7px 0;border-top:1px solid #e3e7ef;\"><a href=\"https://mindloftdaily.com/swindle?c=nl1019-games\" style=\"color:#1d4ed8;\">Swindle</a> (save a lost chess game) and <a href=\"https://mindloftdaily.com/gift?c=nl1019-games\" style=\"color:#1d4ed8;\">Gift</a></td></tr>\n<tr><td style=\"padding:7px 0;border-top:1px solid #e3e7ef;vertical-align:top;\"><b>Crowd</b></td><td style=\"padding:7px 0;border-top:1px solid #e3e7ef;\"><a href=\"https://mindloftdaily.com/herd?c=nl1019-games\" style=\"color:#1d4ed8;\">Herd</a> (pick what most players picked)</td></tr>\n<tr><td style=\"padding:7px 0;border-top:1px solid #e3e7ef;border-bottom:1px solid #e3e7ef;vertical-align:top;\"><b>Arcade</b></td><td style=\"padding:7px 0;border-top:1px solid #e3e7ef;border-bottom:1px solid #e3e7ef;\"><a href=\"https://mindloftdaily.com/squash?c=nl1019-games\" style=\"color:#1d4ed8;\">Squash</a> (match three), <a href=\"https://mindloftdaily.com/dario?c=nl1019-games\" style=\"color:#1d4ed8;\">Dario</a> (platformer) and <a href=\"https://mindloftdaily.com/snake?c=nl1019-games\" style=\"color:#1d4ed8;\">Snake</a></td></tr>\n</table>\n<div style=\"font-size:14px;line-height:1.6;margin-top:12px;color:#2b3140;\">Also new: a daily <a href=\"https://mindloftdaily.com/jig?c=nl1019-games\" style=\"color:#1d4ed8;\">jigsaw</a> and a shelf of <a href=\"https://mindloftdaily.com/iq?c=nl1019-games\" style=\"color:#1d4ed8;\">IQ tests</a>.</div>\n</td></tr>\n\n<tr><td style=\"background:#0b0f1a;border-radius:0 0 12px 12px;padding:26px 28px;text-align:center;margin-top:12px;\">\n<div style=\"font-size:17px;font-weight:800;color:#ffffff;\">Today's slate is fresh</div>\n<div style=\"margin-top:14px;\"><a href=\"https://mindloftdaily.com?c=nl1019-play\" style=\"display:inline-block;background:#2f6fe4;color:#ffffff;font-weight:800;font-size:15px;padding:12px 22px;border-radius:8px;text-decoration:none;\">Play today's puzzles</a></div>\n</td></tr>\n\n<tr><td style=\"padding:18px 28px;font-size:12px;line-height:1.6;color:#6b7385;text-align:center;\">\nYou are getting this because you joined the Mind Loft leaderboard with this address.<br>\n<a href=\"{{UNSUB}}\" style=\"color:#6b7385;\">Unsubscribe</a> \u00b7 admin@mindloftdaily.com\n</td></tr>\n\n</table></td></tr></table>\n</body></html>\n";
 
 const TEXT = "Mind Loft, the last four weeks (Sept 22 to Oct 18)\n\nThank you for playing. Mind Loft keeps growing because of you, and especially because you keep bringing friends along.\nIn the last four weeks you played 110,028 games, nearly four times as many a day as when we last wrote. The leaderboard has grown from 4,630 players to 13,272, and our busiest day yet was Friday, Oct 16, with 1,264 players.\nWe are also working on ways Mind Loft can help cognitive researchers in their work. More to share on that soon.\n\nTOP PLAYERS: Jordan Voss took 21 of 27 daily crowns and 310 game wins. The other days went to Darrren1 (three), rookie, TL68 and VicMcDoogle. VicMcDoogle is #1 all time with 57,276 IQ Points.\nTOP COMMUNITY MEMBERS (players brought in by share link): Gator85 33, Gayle F 22, LookAtLeo 11, Bong S. 6, Jimbo, jkoh and Gator88 5 each.\n\nNEW RUNS, several games in one sitting with one score:\nPolymath: https://mindloftdaily.com/polymath?c=nl1019-runs\nEnglish Gauntlet: https://mindloftdaily.com/english?c=nl1019-runs\nMath Gauntlet: https://mindloftdaily.com/math?c=nl1019-runs\nTrivia Encore: https://mindloftdaily.com/triviaencore?c=nl1019-runs\nEnter the Dojo: https://mindloftdaily.com/dojo?c=nl1019-runs\nJudged: https://mindloftdaily.com/judged?c=nl1019-runs\nRead the Room: https://mindloftdaily.com/room?c=nl1019-runs\nPassport: https://mindloftdaily.com/passport?c=nl1019-runs\nPrice Check: https://mindloftdaily.com/pricecheck?c=nl1019-runs\n\nNEW GROUPS, a private leaderboard for your people: https://mindloftdaily.com/groups?c=nl1019-groups\n\nNEW GAMES: the daily slate grew from 95 games to 135, including Arcos, Scour, Scram, Ergo, Judges, Giant, Gap, Clade, Hold, Cell, Swindle, Herd and Squash.\n\nPlay today's puzzles: https://mindloftdaily.com/?c=nl1019-play\n";
 

diff --git a/app/passport/card/route.js b/app/passport/card/route.js
@@ -80,7 +80,7 @@ function card(scores) {
         h('div', { style: { display: 'flex', fontSize: 17, fontWeight: 800, letterSpacing: 3, color: '#7dd3fc', textTransform: 'uppercase' } }, 'Score 48 and earn the'),
         h('div', { style: { display: 'flex', fontSize: 38, fontWeight: 800, lineHeight: 1.05, letterSpacing: -1, marginTop: 8 } }, SWISS.name),
         h('div', { style: { display: 'flex', fontFamily: MONO, fontSize: 18, color: AMBER, marginTop: 12 } }, `Visa-free to ${SWISS.vf} countries`),
-        h('div', { style: { display: 'flex', fontSize: 19, fontWeight: 700, color: '#cbd5e1', marginTop: 14, lineHeight: 1.3 } }, legsCard ? 'Span, Flank, Ping and nine size calls.' : 'One mystery country. Five rounds.')));
+        h('div', { style: { display: 'flex', fontSize: 19, fontWeight: 700, color: '#cbd5e1', marginTop: 14, lineHeight: 1.3 } }, 'Ping, nine size calls, Flank and Span.')));
 
   return h('div', { style: { width: 1200, height: 630, display: 'flex', background: GROUND, padding: '44px 54px', fontFamily: SANS, color: '#f1f5f9' } },
     h('div', { style: { display: 'flex', flexDirection: 'column', width: 520, paddingRight: 34 } },

diff --git a/app/passport/page.js b/app/passport/page.js
@@ -84,7 +84,7 @@ function ComingSoon({ first }) {
         </div>
         <h1 style={{ fontSize: 24, fontWeight: 800, color: T.ink, margin: '0 0 8px' }}>Passport launches {first ? first.dateLabel : 'soon'}.</h1>
         <p style={{ fontSize: 15, color: T.muted, fontWeight: 600, lineHeight: 1.5, margin: '0 0 18px' }}>
-          The daily geography run. One mystery country, five rounds, 50 points. Come back when the first country boards.
+          The daily geography run: Ping, nine size calls, Flank and Span, 50 points. Come back when the first flight boards.
         </p>
         <a href="/" style={{ color: '#7d1d2c', fontWeight: 800, textDecoration: 'underline' }}>See the other daily puzzles &rarr;</a>
       </div>

diff --git a/app/EntryDoor.jsx b/app/EntryDoor.jsx
@@ -82,7 +82,7 @@ const RUN_TAG = {
   pricecheck: 'Five price guesses, one card',
   gauntlet: 'Seven trivia quizzes as one long run',
   triviaencore: 'The three trivia banks that sat out the Gauntlet',
-  passport: 'One country, four legs, a passport',
+  passport: 'Ping, sizes, Flank, Span, a passport',
 };
 const RUN_GLYPH = 'M3 7h8v4H3zM13 13h8v4h-8zM11 9h4v6';
 
